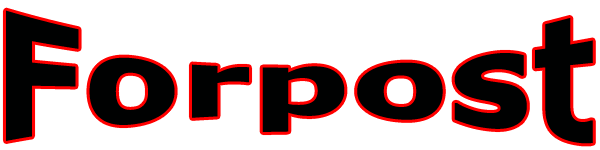
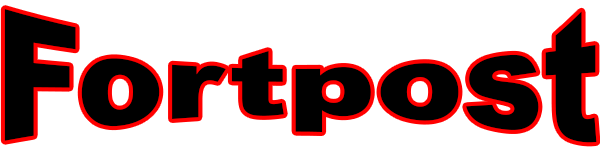
image changed to fortpost

Changed region(s): [[0.0, 0.0267, 1.0, 0.9867]]

diff --git a/index.html b/index.html
@@ -1,4 +1,4 @@
-<!DOCTYPE html PUBLIC "-//W3C//DTD XHTML 1.0 Transitional//EN" "http://www.w3.org/TR/xhtml1/DTD/xhtml1-transitional.dtd">
+<!DOCTYPE html PUBLIC "-//W3C//DTD XHTML 1.0 Transitional//EN" "http://www.w3.org/TR/xhtml1/DTD/xhtml1-transitional.dtd">
 <html>
 <head>
 <meta http-equiv="Content-Type" content="text/html; charset=UTF-8" />
@@ -50,7 +50,7 @@
 
 Лазертаг, что это такое и как это работает. Эта фраза интересует большинство потребителей данного вида активного отдыха и в первую очередь приятного время провождения.
 <p>
-Итак   ЛАЗЕРТАГ- это игровой вид отдыха в основу  которого легли передовые технологии разработанные в свое время для тренировки бойцов спец. подразделений разных стран. Принцип действия основан на безопасном для человека ИК излучении. Игровое оборудование представляет собой макет оружия с  полной внутренней интеграцией электроники (так называемый излучатель) и повязка со встроенными 4 приемными устрыыыыойствами (приемник). Повязка и игровой макет связаны между собой радиосвязью, что по сравнению с более ранними образцами выгодно отличает оборудование нового поколения, ведь ранние макеты были связаны с повязкой посредством витого провода, что отчасти мешало и сковывало движение игрока. 
+Итак   ЛАЗЕРТАГ- это игровой вид отдыха в основу  которого легли передовые технологии разработанные в свое время для тренировки бойцов спец. подразделений разных стран. Принцип действия основан на безопасном для человека ИК излучении. Игровое оборудование представляет собой макет оружия с  полной внутренней интеграцией электроники (так называемый излучатель) и повязка со встроенными 4 приемными устройствами (приемник). Повязка и игровой макет связаны между собой радиосвязью, что по сравнению с более ранними образцами выгодно отличает оборудование нового поколения, ведь ранние макеты были связаны с повязкой посредством витого провода, что отчасти мешало и сковывало движение игрока. 
 <p>
 Все оборудование сертифицировано и полностью безопасно для человека. В отличие  от пейтбола и страйкбола   ЛАЗЕРТАГ  выгодно отличает  то, принять участие в игре могут и женщины и дети, ведь нет болевых ощущений и не нужна защитная маска, которая мешает обзору. Игра более реалистичная, ведь по характеристикам игровое оборудование « стреляет»  прицельно на дальность 200-250 метров, а использование прицела позволяет на данной дальности поражать «противников» с завидной точностью. Описывать возможности игровых комплектов , техническую информацию, и т.д.  можно долго и нудно- приезжайте к нам на игру и сами оцените насколько это увлекательное занятие.
 
